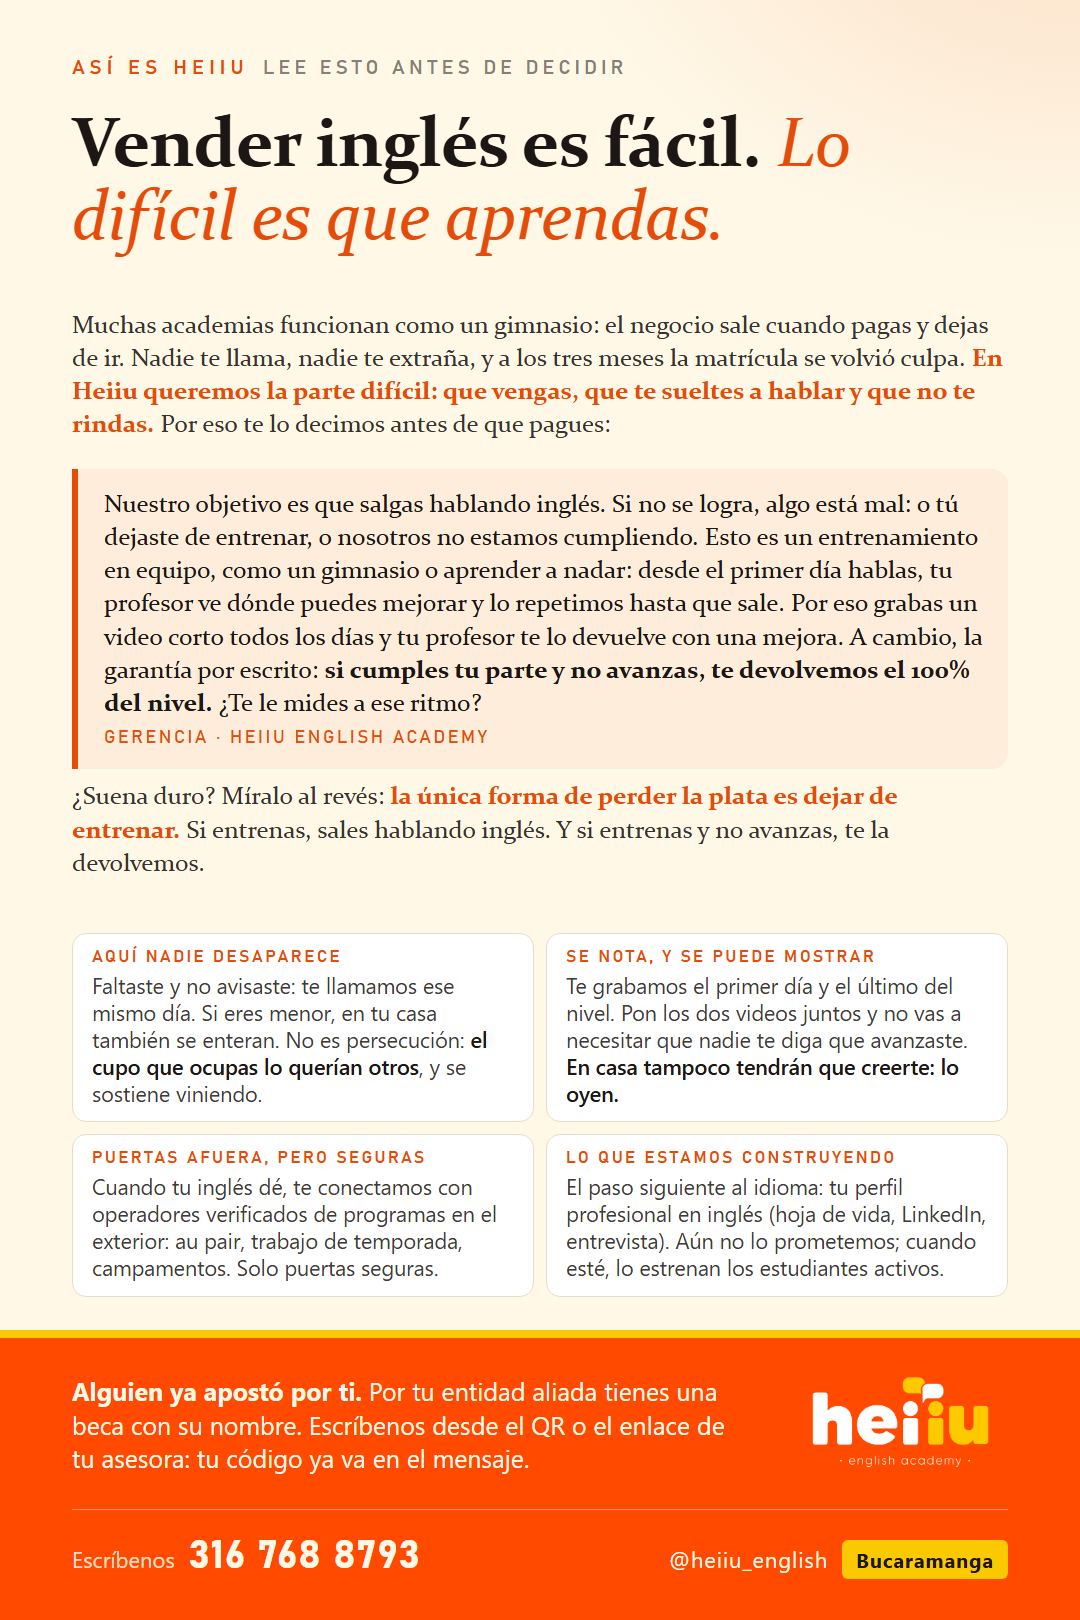
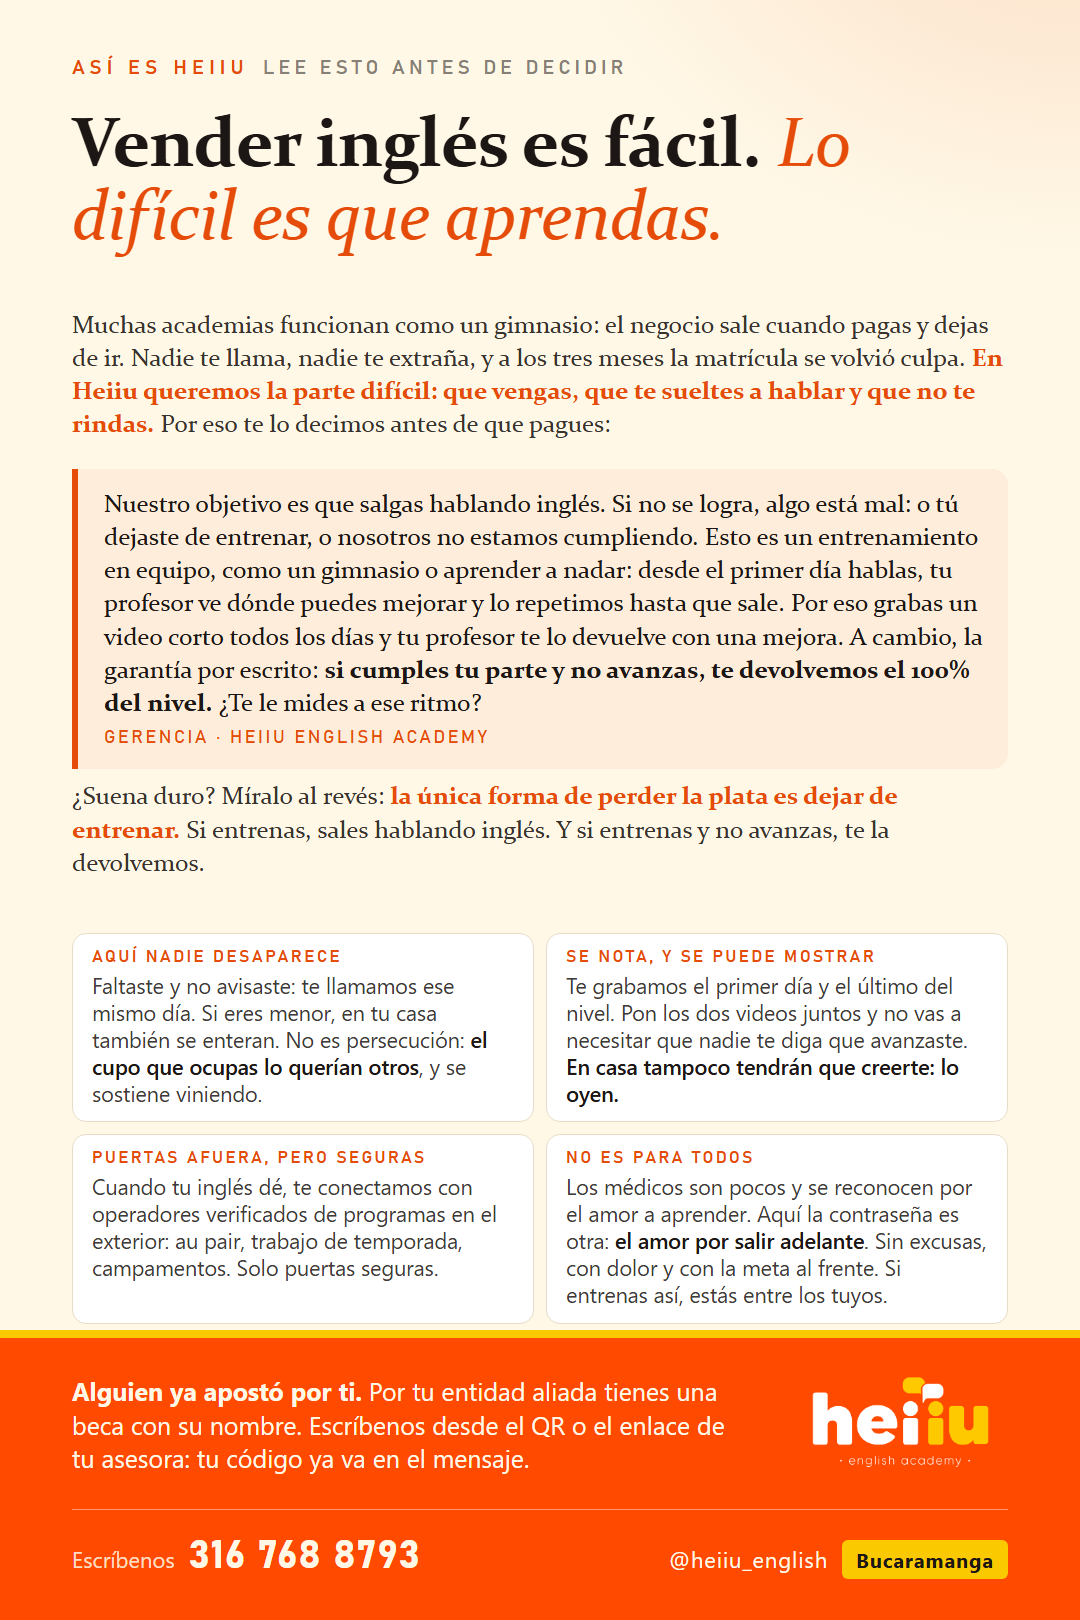
Pieza general respaldo: tarjeta 'no es para todos' (pertenencia: el amor por salir adelante, sin excusas, con la meta al frente) en lugar de la de construccion

Changed region(s): [[0.5194, 0.7099, 0.9167, 0.8025]]

diff --git a/generadores/comercial/gen_piezas_conciencia.py b/generadores/comercial/gen_piezas_conciencia.py
@@ -130,7 +130,7 @@ PIEZAS = {
         why=[('AQUÍ NADIE DESAPARECE', 'Faltaste y no avisaste: te llamamos ese mismo día. Si eres menor, en tu casa también se enteran. No es persecución: <b>el cupo que ocupas lo querían otros</b>, y se sostiene viniendo.', False),
              ('SE NOTA, Y SE PUEDE MOSTRAR', 'Te grabamos el primer día y el último del nivel. Pon los dos videos juntos y no vas a necesitar que nadie te diga que avanzaste. <b>En casa tampoco tendrán que creerte: lo oyen.</b>', False),
              ('PUERTAS AFUERA, PERO SEGURAS', 'Cuando tu inglés dé, te conectamos con operadores verificados de programas en el exterior: au pair, trabajo de temporada, campamentos. Solo puertas seguras.', False),
-             ('LO QUE ESTAMOS CONSTRUYENDO', 'El paso siguiente al idioma: tu perfil profesional en inglés (hoja de vida, LinkedIn, entrevista). Aún no lo prometemos; cuando esté, lo estrenan los estudiantes activos.', False)],
+             ('NO ES PARA TODOS', 'Los médicos son pocos y se reconocen por el amor a aprender. Aquí la contraseña es otra: <b>el amor por salir adelante</b>. Sin excusas, con dolor y con la meta al frente. Si entrenas así, estás entre los tuyos.', False)],
         band='<b>Alguien ya apostó por ti.</b> Por tu entidad aliada tienes una beca con su nombre. Escríbenos desde el QR o el enlace de tu asesora: tu código ya va en el mensaje.',
         band_px=290),
     '1_PROFESIONALES': dict(
